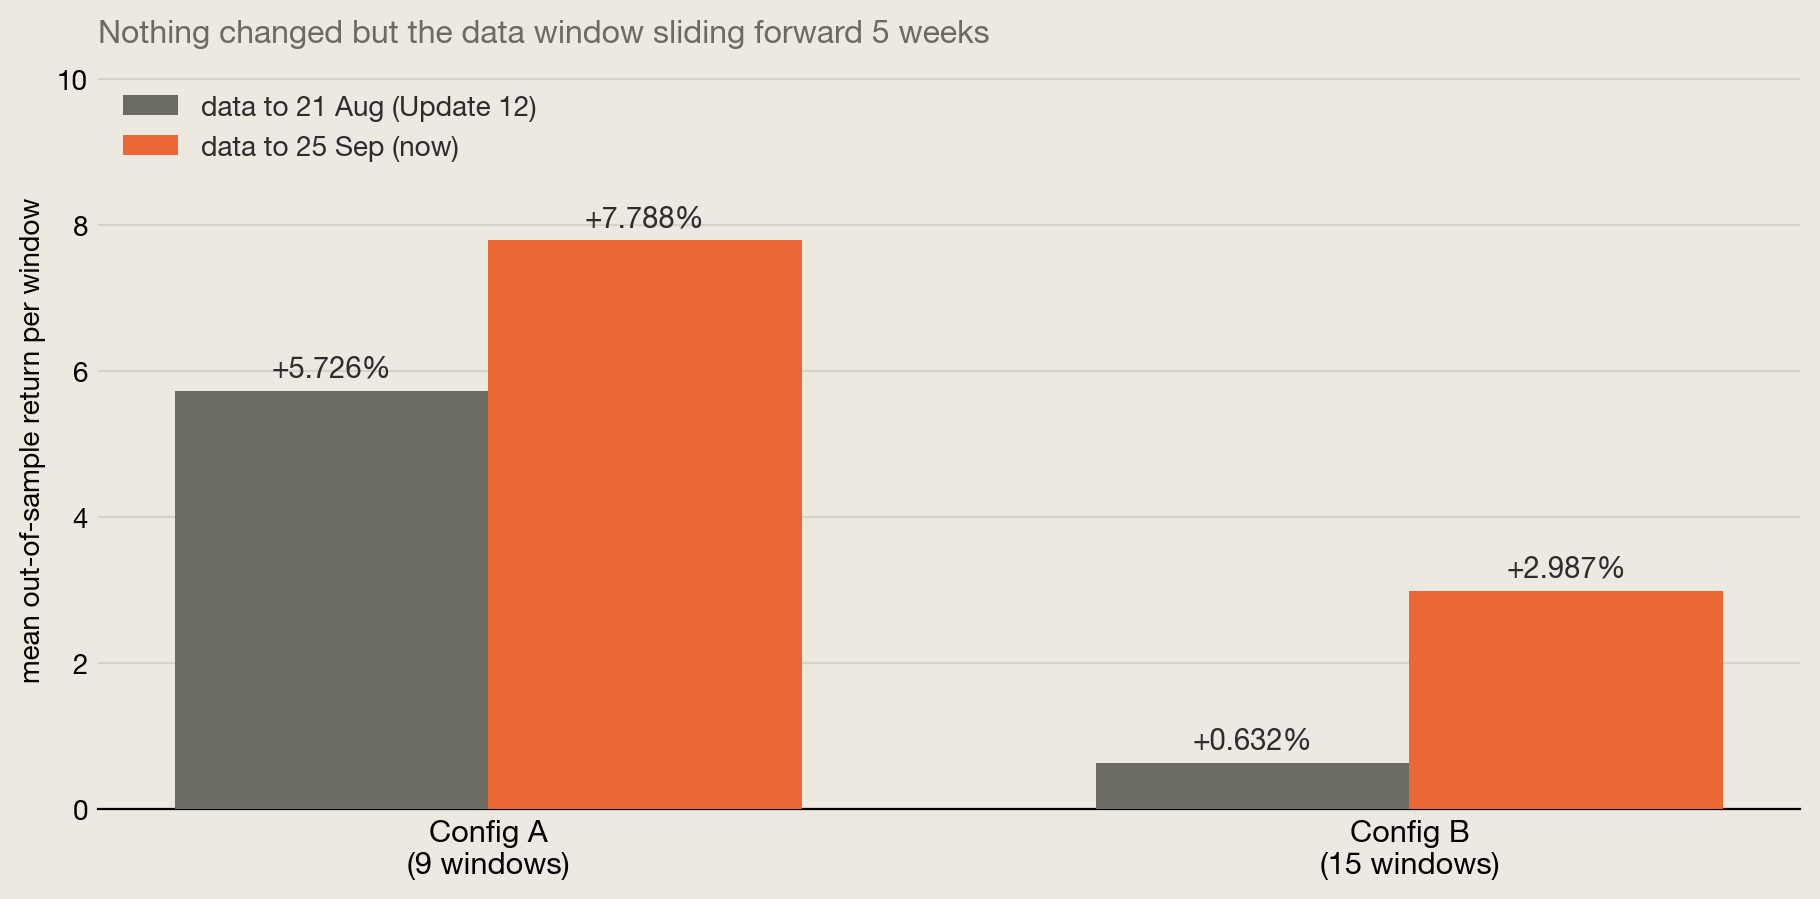
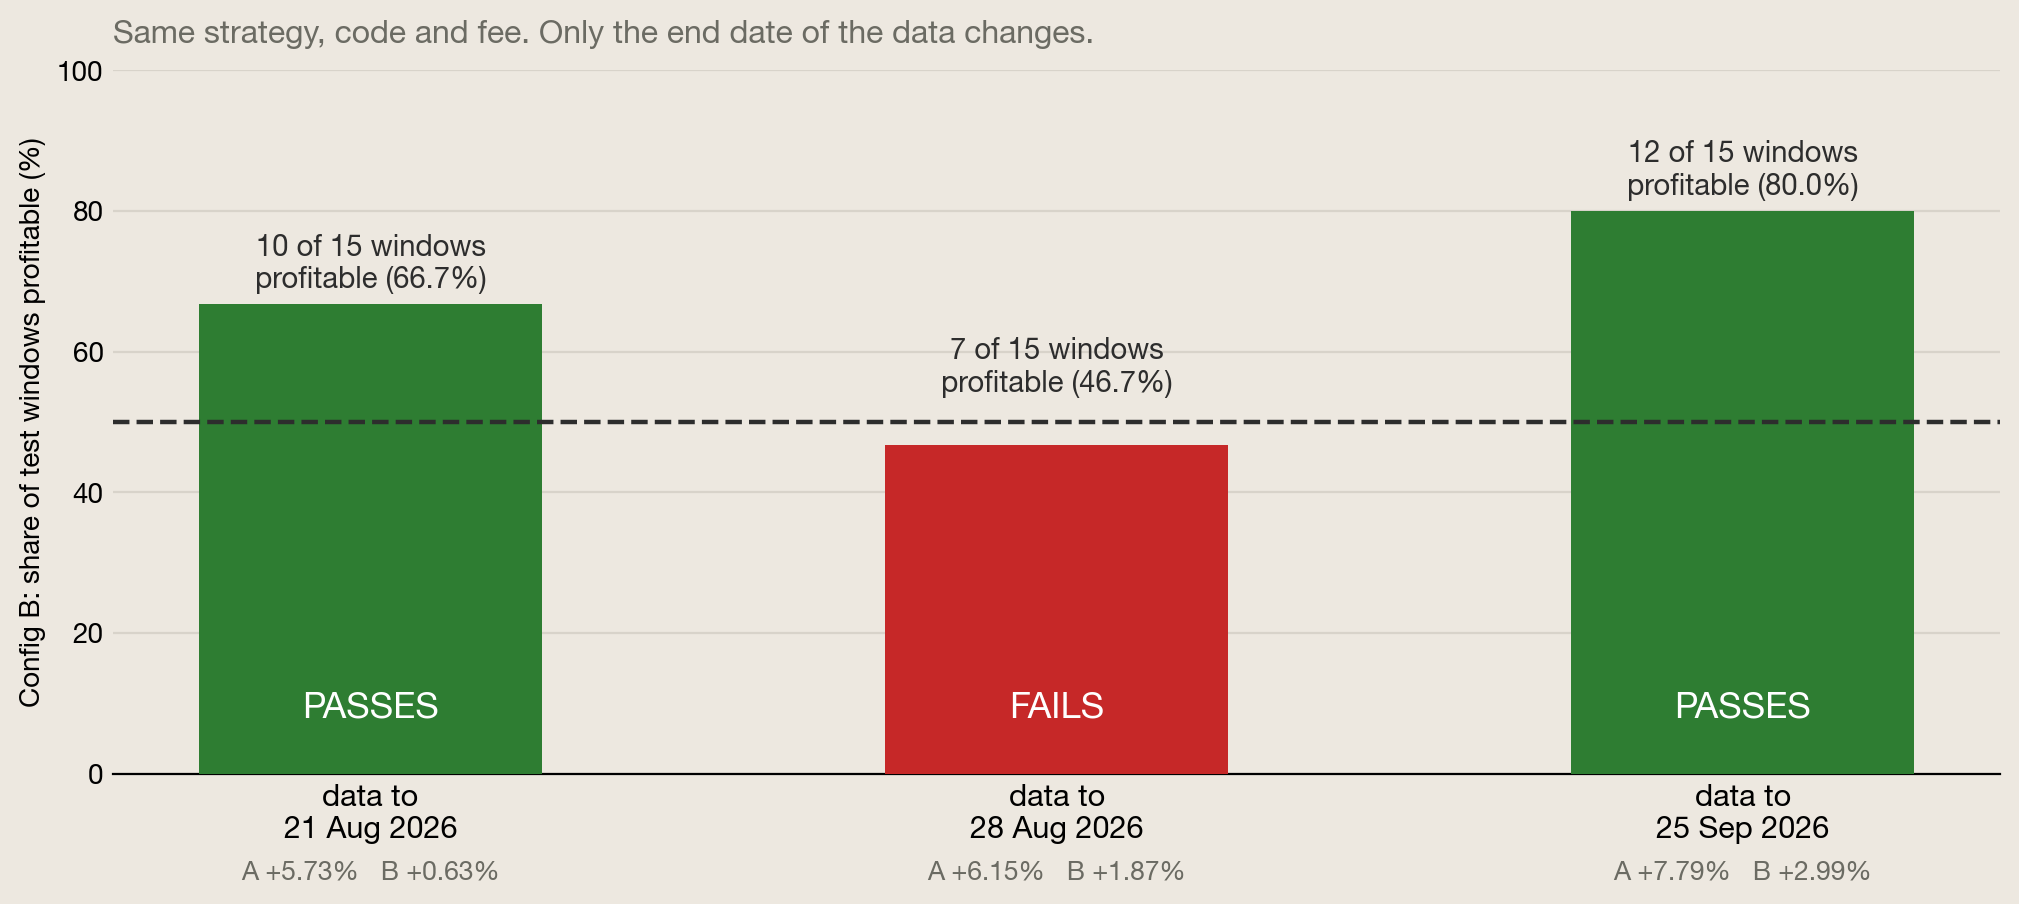
Update 13 deck: the Reality Check, the window flip, the HK fee
Seven slides: where Update 12 left the S&P 100 result; why the number of
combinations tried matters; the Reality Check result (p = 0.094 and
0.098, against 0.058 and 0.015 for the winners tested alone); the result
passing or failing with the data's end date; the Hong Kong fee checked
against a real paper fill; and a summary with the live forward test.
Reality Check figures are read from results/reality_check_2*.json.

The window chart now shows all three end dates, plotting Config B's share
of profitable windows (10/15, 7/15, 12/15) against the 50% bar, and says
"only the end date changes" rather than "only the last week": the 25 Sep
run is four weeks later and used 98 of the 100 constituents.

check_deck.py catches what python-pptx cannot see: text running past its
card, a chart overlapping the caption card below it, and shapes off the
slide. It found a 0.05in chart overlap on slide 3 of this deck.

diff --git a/presentations/generate_update13_slides.py b/presentations/generate_update13_slides.py
@@ -1,0 +1,225 @@
+"""Generate FYP Update 13 Presentation — Settling Whether the Result Was Luck
+
+Update 12 ended by promising to test whether the one passing result (cross-
+sectional reversal on the S&P 100) was a real edge or the luckiest of many
+combinations tried. This deck reports that test (White's Reality Check), the
+finding that the result flips between pass and fail with a one-week shift in
+the data window, the Hong Kong fee checked against a real trade, and the
+live forward test of the strategy.
+
+Reality Check figures are read from results/reality_check_2*.json so the
+deck cannot drift from the study output.
+"""
+from pptx import Presentation
+from pptx.util import Inches, Pt
+from pptx.dml.color import RGBColor
+from pptx.enum.text import PP_ALIGN
+from pptx.enum.shapes import MSO_SHAPE
+from pathlib import Path
+import glob
+import json
+import sys
+
+import pandas as pd
+
+prs = Presentation()
+prs.slide_width = Inches(13.333)
+prs.slide_height = Inches(7.5)
+
+BG = RGBColor(0xED, 0xE8, 0xE0)
+BG_CARD = RGBColor(0xE0, 0xDB, 0xD3)
+DARK = RGBColor(0x2D, 0x2D, 0x2D)
+BRACKET = RGBColor(0x33, 0x33, 0x2D)
+ACCENT_GREEN = RGBColor(0x2E, 0x7D, 0x32)
+ACCENT_RED = RGBColor(0xC6, 0x28, 0x28)
+DIM = RGBColor(0x6B, 0x6B, 0x63)
+MID = RGBColor(0x55, 0x55, 0x50)
+
+CHART_DIR = Path(sys.argv[1]) if len(sys.argv) > 1 else Path(__file__).parent
+RESULTS = Path(__file__).resolve().parent.parent / 'results'
+
+_rc_file = sorted(glob.glob(str(RESULTS / 'reality_check_2*.json')))[-1]
+RC = json.loads(Path(_rc_file).read_text())['by_config']
+A, B = RC['A (9 windows)'], RC['B (15 windows)']
+
+def set_slide_bg(slide, color=BG):
+    f = slide.background.fill; f.solid(); f.fore_color.rgb = color
+
+
+def add_text(slide, left, top, width, height, text, font_size=18, color=DARK, bold=False,
+             alignment=PP_ALIGN.LEFT, font_name="Calibri"):
+    tb = slide.shapes.add_textbox(Inches(left), Inches(top), Inches(width), Inches(height))
+    tf = tb.text_frame; tf.word_wrap = True
+    p = tf.paragraphs[0]; p.text = text
+    p.font.size = Pt(font_size); p.font.color.rgb = color
+    p.font.bold = bold; p.font.name = font_name; p.alignment = alignment
+    return tf
+
+
+def add_para(tf, text, font_size=18, color=DARK, bold=False, alignment=PP_ALIGN.LEFT,
+             font_name="Calibri", space_before=Pt(6)):
+    p = tf.add_paragraph(); p.text = text
+    p.font.size = Pt(font_size); p.font.color.rgb = color
+    p.font.bold = bold; p.font.name = font_name
+    p.alignment = alignment; p.space_before = space_before
+    return p
+
+
+def add_bracket_tl(slide, left, top, size=1.2, thickness=0.12):
+    v = slide.shapes.add_shape(MSO_SHAPE.RECTANGLE, Inches(left), Inches(top), Inches(thickness), Inches(size))
+    v.fill.solid(); v.fill.fore_color.rgb = BRACKET; v.line.fill.background()
+    h = slide.shapes.add_shape(MSO_SHAPE.RECTANGLE, Inches(left), Inches(top), Inches(size), Inches(thickness))
+    h.fill.solid(); h.fill.fore_color.rgb = BRACKET; h.line.fill.background()
+
+
+def add_bracket_br(slide, right, bottom, size=1.2, thickness=0.12):
+    v = slide.shapes.add_shape(MSO_SHAPE.RECTANGLE, Inches(right - thickness), Inches(bottom - size), Inches(thickness), Inches(size))
+    v.fill.solid(); v.fill.fore_color.rgb = BRACKET; v.line.fill.background()
+    h = slide.shapes.add_shape(MSO_SHAPE.RECTANGLE, Inches(right - size), Inches(bottom - thickness), Inches(size), Inches(thickness))
+    h.fill.solid(); h.fill.fore_color.rgb = BRACKET; h.line.fill.background()
+
+
+def add_divider(slide, left, top, width):
+    s = slide.shapes.add_shape(MSO_SHAPE.RECTANGLE, Inches(left), Inches(top), Inches(width), Pt(2))
+    s.fill.solid(); s.fill.fore_color.rgb = BRACKET; s.line.fill.background()
+
+
+def add_card(slide, left, top, width, height, fill_color=BG_CARD):
+    s = slide.shapes.add_shape(MSO_SHAPE.RECTANGLE, Inches(left), Inches(top), Inches(width), Inches(height))
+    s.fill.solid(); s.fill.fore_color.rgb = fill_color
+    s.line.color.rgb = RGBColor(0xCC, 0xC7, 0xBF); s.line.width = Pt(1)
+    return s
+
+
+def picture(slide, name, left, top, width):
+    img = CHART_DIR / name
+    if img.exists():
+        slide.shapes.add_picture(str(img), Inches(left), Inches(top), width=Inches(width))
+
+
+
+
+def title(slide, text, size=28):
+    add_bracket_tl(slide, 0.5, 0.3, size=0.8, thickness=0.1)
+    add_text(slide, 0.8, 0.5, 12, 0.7, text, font_size=size, color=DARK, bold=True)
+    add_divider(slide, 0.8, 1.15, 4)
+
+
+def caption_card(slide, top, headline, body, height=1.1):
+    add_card(slide, 0.8, top, 11.7, height)
+    tf = add_text(slide, 1.1, top + 0.1, 11.2, 0.5, headline, font_size=14, color=DARK, bold=True)
+    add_para(tf, body, font_size=13.5, color=MID, space_before=Pt(2))
+
+
+# ==================== SLIDE 1: TITLE ====================
+slide = prs.slides.add_slide(prs.slide_layouts[6]); set_slide_bg(slide)
+add_bracket_tl(slide, 1.5, 1.0, size=2.0, thickness=0.15)
+add_bracket_br(slide, 11.8, 6.5, size=2.0, thickness=0.15)
+add_text(slide, 2.5, 2.6, 8.5, 1.2, "FYP UPDATE 13", font_size=44, color=DARK, bold=True, alignment=PP_ALIGN.CENTER)
+add_text(slide, 2.5, 3.8, 8.5, 0.8, "Was the Passing Result Luck?", font_size=20, color=MID, alignment=PP_ALIGN.CENTER)
+add_text(slide, 2.5, 5.0, 8.5, 0.5, "Jackson Seow  •  FYP 2025/2026", font_size=16, color=DIM, alignment=PP_ALIGN.CENTER)
+
+
+# ==================== SLIDE 2: WHERE UPDATE 12 LEFT IT ====================
+slide = prs.slides.add_slide(prs.slide_layouts[6]); set_slide_bg(slide)
+title(slide, "Where Update 12 Left It")
+add_card(slide, 0.8, 1.6, 5.6, 4.4)
+tf = add_text(slide, 1.1, 1.85, 5.0, 0.5, "What had passed", font_size=18, color=ACCENT_GREEN, bold=True)
+for line in ("", "Cross-sectional reversal on the S&P 100:",
+             "•  passed the 9 and 15 window standard",
+             "•  survived the real broker fee of 0.005%",
+             "•  PBO of 0.274, so the settings search",
+             "    was not just picking noise"):
+    add_para(tf, line, font_size=14, color=DARK)
+add_card(slide, 6.9, 1.6, 5.6, 4.4, fill_color=RGBColor(0xE4, 0xDE, 0xD2))
+tf = add_text(slide, 7.2, 1.85, 5.0, 0.5, "The question still open", font_size=18, color=ACCENT_RED, bold=True)
+for line in ("", "Many strategy and universe combinations",
+             "were tried and only 1 passed.", "",
+             "Try enough combinations and one will pass",
+             "by luck alone, so is this a real edge, or",
+             "the lucky one?"):
+    add_para(tf, line, font_size=14, color=DARK)
+add_card(slide, 0.8, 6.25, 11.7, 0.75)
+add_text(slide, 1.1, 6.37, 11.2, 0.5,
+         "This update runs the test that answers it: White's Reality Check.", font_size=13.5, color=MID)
+
+
+# ==================== SLIDE 3: HOW THE REALITY CHECK WORKS ====================
+slide = prs.slides.add_slide(prs.slide_layouts[6]); set_slide_bg(slide)
+title(slide, "Why the Number of Tries Matters")
+picture(slide, 'chart_u13_cost_curve.png', 1.97, 1.4, 9.4)
+caption_card(slide, 6.1,
+             "The Reality Check: remove any edge from all 8 combinations, reshuffle 20,000 times, "
+             "and count how often the luckiest one beats our winner.",
+             "8 combinations = 2 cross-sectional strategies × 4 stock universes, all over the same 3 years. "
+             "Counting every single-stock test instead would mean over 100 candidates and a worse score for our result.",
+             height=1.2)
+
+
+# ==================== SLIDE 4: THE RESULT ====================
+slide = prs.slides.add_slide(prs.slide_layouts[6]); set_slide_bg(slide)
+title(slide, "The Result: It Does Not Pass")
+picture(slide, 'chart_u13_rc.png', 0.9, 1.4, 11.5)
+caption_card(slide, 5.75,
+             f"Luck matches or beats the winner {A['p_value']:.1%} and {B['p_value']:.1%} of the time. "
+             f"The usual bar for \"real\" is under 5%.",
+             f"Tested alone, the same winners score {A['naive_p_value']:.3f} and {B['naive_p_value']:.3f}. "
+             "The gap between those numbers is the cost of admitting how many combinations were tried.",
+             height=1.25)
+
+
+# ==================== SLIDE 5: THE RESULT MOVES WITH THE DATA ====================
+slide = prs.slides.add_slide(prs.slide_layouts[6]); set_slide_bg(slide)
+title(slide, "The Result Also Changes With the Data Window")
+picture(slide, 'chart_u13_drift.png', 1.6, 1.4, 10.1)
+caption_card(slide, 6.05,
+             "Moving the end of the 3-year window by one week, 21 to 28 August, turns a pass into a fail.",
+             "The Hong Kong results, whose data did not change, came out exactly the same, "
+             "so the change comes from the data, not the code.",
+             height=1.15)
+
+
+# ==================== SLIDE 6: HK FEE CHECKED ====================
+slide = prs.slides.add_slide(prs.slide_layouts[6]); set_slide_bg(slide)
+title(slide, "The Hong Kong Fee, Checked Against a Real Trade")
+picture(slide, 'chart_u13_fee.png', 0.9, 1.4, 11.5)
+caption_card(slide, 6.0,
+             "A real paper trade of 100 Tencent shares was charged HK$77.73. "
+             "The published fee schedule predicts HK$77.84.",
+             "Because of the flat HK$15 platform fee, the percentage depends on trade size: "
+             "about 0.158% at the HK$100,000 our studies trade, against the 0.16% the code uses.",
+             height=1.2)
+
+
+# ==================== SLIDE 7: SUMMARY ====================
+slide = prs.slides.add_slide(prs.slide_layouts[6]); set_slide_bg(slide)
+add_bracket_tl(slide, 1.5, 0.7, size=2.0, thickness=0.15)
+add_bracket_br(slide, 11.8, 6.8, size=2.0, thickness=0.15)
+add_text(slide, 2.5, 1.0, 8.5, 0.7, "SUMMARY", font_size=32, color=DARK, bold=True, alignment=PP_ALIGN.CENTER)
+tf = add_text(slide, 2.0, 2.0, 9.5, 0.5,
+              f"❌   Reality Check: luck beats the winner {A['p_value']:.1%} and {B['p_value']:.1%} of the time, "
+              "above the 5% bar", font_size=16, color=DARK)
+add_para(tf, "", font_size=7)
+add_para(tf, "❌   A one-week change in the data turns the pass into a fail", font_size=16, color=DARK)
+add_para(tf, "", font_size=7)
+add_para(tf, "✅   Hong Kong fee confirmed against a real trade (HK$77.73 vs HK$77.84)", font_size=16, color=DARK)
+add_para(tf, "", font_size=7)
+add_para(tf, "➡   No strategy in this project beat chance once tested properly", font_size=16, color=DARK, bold=True)
+add_card(slide, 2.0, 4.85, 9.5, 1.75)
+tf = add_text(slide, 2.3, 4.97, 9, 0.5, "🎯  Now trading live: S&P 100 reversal, US$100,000 paper account",
+              font_size=17, color=ACCENT_GREEN, bold=True)
+add_para(tf, "Started 28 September. Six bugs were caught before its first trade, including one that would "
+             "have stopped it trading at all. First trades expected this week.", font_size=13.5, color=MID)
+add_para(tf, "About 5 rebalances before the project ends: enough to show the system works, "
+             "not enough to prove the strategy.", font_size=13.5, color=MID, space_before=Pt(4))
+add_text(slide, 2.5, 6.8, 8.5, 0.5, "Thank You", font_size=24, color=BRACKET, bold=True, alignment=PP_ALIGN.CENTER)
+
+
+from pptx_fit import fit_text_boxes
+print("fitting text boxes to their content:")
+n = fit_text_boxes(prs)
+print(f"  {n} box(es) resized")
+
+output_path = "/Users/jacksonetherchainstake/FYP/Documents/FYP_Update_13.pptx"
+prs.save(output_path)
+print(f"Saved to {output_path}")

diff --git a/presentations/generate_update13_charts.py b/presentations/generate_update13_charts.py
@@ -88,26 +88,40 @@ def chart_fee():
 
 
 def chart_drift():
-    """Same study, five more weeks of data, different answer."""
-    fig, ax = plt.subplots(figsize=(9.2, 4.6), dpi=200)
-    labels = ['Config A\n(9 windows)', 'Config B\n(15 windows)']
-    then, now = [5.726, 0.632], [7.788, 2.987]
-    x = np.arange(2); w = 0.34
-    ax.bar(x - w/2, then, w, color=MUTED, zorder=3, label='data to 21 Aug (Update 12)')
-    ax.bar(x + w/2, now, w, color=ORANGE, zorder=3, label='data to 25 Sep (now)')
-    for xp, v in list(zip(x - w/2, then)) + list(zip(x + w/2, now)):
-        ax.annotate(f'{v:+.3f}%', xy=(xp, v), xytext=(0, 5), textcoords='offset points',
-                    ha='center', fontsize=10.5, fontweight='bold')
-    ax.set_xticks(x, labels, fontsize=11)
-    ax.set_ylabel('mean out-of-sample return per window')
-    ax.set_ylim(0, max(now) * 1.3)
+    """Same study, three data end dates: pass, fail, pass.
+
+    Config B's consistency (share of its 15 test windows that made money) is
+    the figure that decides the verdict, so that is what is plotted, against
+    the 50% bar. Figures: 21 Aug from cross_sectional_cost_sensitivity at
+    0.005%; 28 Aug and 25 Sep from the two Reality Check runs.
+    """
+    ends = ['data to\n21 Aug 2026', 'data to\n28 Aug 2026', 'data to\n25 Sep 2026']
+    cons_b = [66.7, 46.7, 80.0]
+    wins_b = ['10 of 15', '7 of 15', '12 of 15']
+    mean_a = [5.73, 6.15, 7.79]; mean_b = [0.63, 1.87, 2.99]
+    passed = [c >= 50 for c in cons_b]
+    fig, ax = plt.subplots(figsize=(10.2, 4.9), dpi=200)
+    cols = [GREEN if ok else RED for ok in passed]
+    ax.bar(range(3), cons_b, 0.5, color=cols, zorder=3)
+    ax.axhline(50, color=INK, ls='--', lw=1.6, zorder=4)
+    ax.annotate('50% bar', xy=(2.42, 51.5), fontsize=10, color=INK, ha='right')
+    for i in range(3):
+        ax.annotate(f"{wins_b[i]} windows\nprofitable ({cons_b[i]:.1f}%)", xy=(i, max(cons_b[i], 52)),
+                    xytext=(0, 6), textcoords='offset points', ha='center', fontsize=10.5,
+                    fontweight='bold')
+        ax.annotate('PASSES' if passed[i] else 'FAILS', xy=(i, 8), ha='center', fontsize=13,
+                    fontweight='bold', color='white', zorder=5)
+        ax.annotate(f"A {mean_a[i]:+.2f}%   B {mean_b[i]:+.2f}%", xy=(i, -15), ha='center',
+                    fontsize=9.5, color=MUTED, annotation_clip=False)
+    ax.set_xticks(range(3), ends, fontsize=11)
+    ax.set_ylim(0, 100)
+    ax.set_ylabel('Config B: share of test windows profitable (%)')
     ax.grid(axis='y', color=GRID, lw=0.8); ax.tick_params(length=0)
     ax.spines[['top','right','left']].set_visible(False)
-    ax.legend(frameon=False, fontsize=10, loc='upper left')
-    ax.set_title('Nothing changed but the data window sliding forward 5 weeks',
+    ax.set_title('Same strategy, code and fee. Only the end date of the data changes.',
                  fontsize=11.5, loc='left', color=MUTED, pad=10)
-    fig.tight_layout(); fig.savefig(OUT / 'chart_u13_drift.png', bbox_inches='tight')
-    plt.close(fig); print('drift chart done')
+    fig.tight_layout(); fig.subplots_adjust(bottom=0.2)
+    fig.savefig(OUT / 'chart_u13_drift.png', bbox_inches='tight'); plt.close(fig); print('drift chart done')
 
 
 def chart_rc():

diff --git a/presentations/check_deck.py b/presentations/check_deck.py
@@ -1,0 +1,52 @@
+"""
+Layout check for a generated deck: things python-pptx cannot see.
+
+python-pptx places shapes where it is told and never lays anything out, so
+a deck can build cleanly while text spills out of its card, a chart sits on
+top of the caption card below it, or a shape hangs off the slide. Each of
+these has happened in this project's decks and was only found by opening
+them. Run after every build.
+
+Usage:
+    python3 presentations/check_deck.py path/to/deck.pptx
+"""
+import sys
+from pptx import Presentation
+from pptx.enum.shapes import MSO_SHAPE_TYPE
+
+E = 914400.0
+
+
+def box(sh):
+    return sh.left / E, sh.top / E, sh.width / E, sh.height / E
+
+
+def main(path):
+    prs = Presentation(path)
+    W, H = prs.slide_width / E, prs.slide_height / E
+    problems = 0
+    for n, s in enumerate(prs.slides, 1):
+        cards = [box(sh) for sh in s.shapes
+                 if sh.shape_type == MSO_SHAPE_TYPE.AUTO_SHAPE and box(sh)[2] > 3 and box(sh)[3] > 0.6]
+        for sh in s.shapes:
+            l, t, w, h = box(sh)
+            label = (sh.text_frame.text.splitlines()[0][:45] if sh.has_text_frame and sh.text_frame.text.strip()
+                     else str(sh.shape_type).split('.')[-1])
+            if l + w > W + 0.02 or t + h > H + 0.02 or l < -0.02 or t < -0.02:
+                print(f"  slide {n}: OFF SLIDE  {label}"); problems += 1
+            if sh.has_text_frame and sh.text_frame.text.strip():
+                host = [c for c in cards if c[0] - 0.05 <= l < c[0] + c[2] and c[1] - 0.05 <= t < c[1] + c[3]]
+                if host and (t + h) - (host[0][1] + host[0][3]) > 0.03:
+                    print(f"  slide {n}: text {((t+h)-(host[0][1]+host[0][3])):.2f}in past its card  {label}")
+                    problems += 1
+            if sh.shape_type == MSO_SHAPE_TYPE.PICTURE:
+                for c in cards:
+                    if c[1] > t and t + h > c[1] + 0.02 and not (l + w <= c[0] or l >= c[0] + c[2]):
+                        print(f"  slide {n}: picture overlaps the card below by {t + h - c[1]:.2f}in")
+                        problems += 1
+    print("layout OK" if not problems else f"{problems} layout problem(s)")
+    return 1 if problems else 0
+
+
+if __name__ == '__main__':
+    sys.exit(main(sys.argv[1]))
